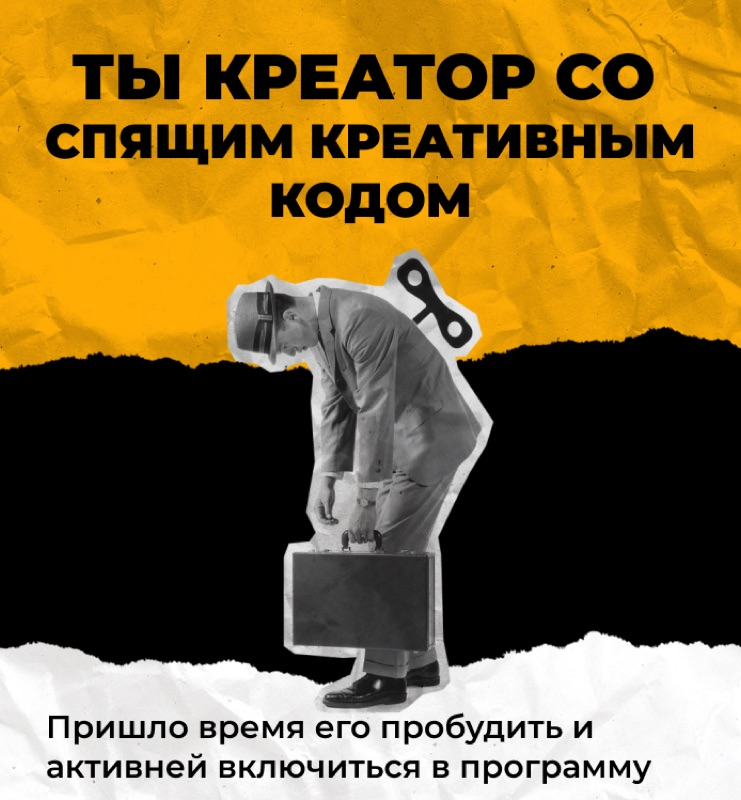
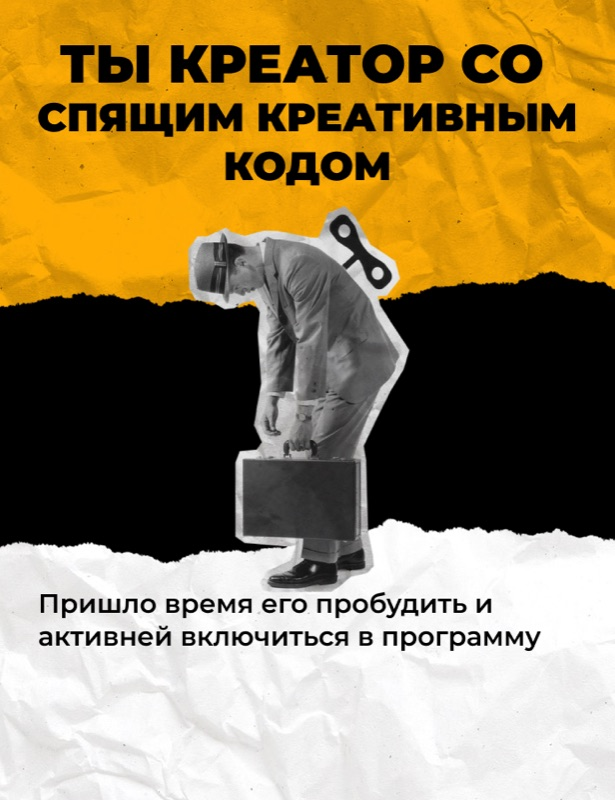
update 2026-10-18_1901

diff --git a/index.html b/index.html
@@ -788,7 +788,7 @@ function ssbHtml(list){
 
 /* ---------- аккаунт ---------- */
 // статус по прогрессу, как в ГетКурсе: спящий код → … → … (картинки двух следующих статусов пришлёт Буша)
-const LEVELS=[{min:0,img:"img/status1.jpg",t:"Ты креатор со спящим креативным кодом"},{min:34,img:"",t:"Креативный код просыпается"},{min:80,img:"",t:"Креативный код активирован"}];
+const LEVELS=[{min:0,img:"img/status1.jpg",t:"Ты креатор со спящим креативным кодом"},{min:34,img:"img/status2.jpg",t:"Ты креатор с интуитивным креативным кодом"},{min:80,img:"img/status3.jpg",t:"Ты креатор с развитым креативным кодом"}];
 function meView(){
   const a=S.acc,p=pct(),all=allLes();
   const lv=[...LEVELS].reverse().find(x=>p>=x.min);

diff --git a/sw.js b/sw.js
@@ -1,6 +1,6 @@
 // Кэшируем только оболочку приложения: страница открывается даже при плохой связи.
 // Уроки и прогресс всегда берутся с сервера (последняя версия уроков хранится в localStorage).
-const C = "kk-shell-1792320713";
+const C = "kk-shell-1792321291";
 const SHELL = ["./", "index.html", "manifest.json", "icon-192.png", "icon-512.png"];
 self.addEventListener("install", e => { e.waitUntil(caches.open(C).then(c => c.addAll(SHELL))); self.skipWaiting(); });
 self.addEventListener("activate", e => { e.waitUntil(caches.keys().then(ks => Promise.all(ks.filter(k => k !== C).map(k => caches.delete(k))))); self.clients.claim(); });
